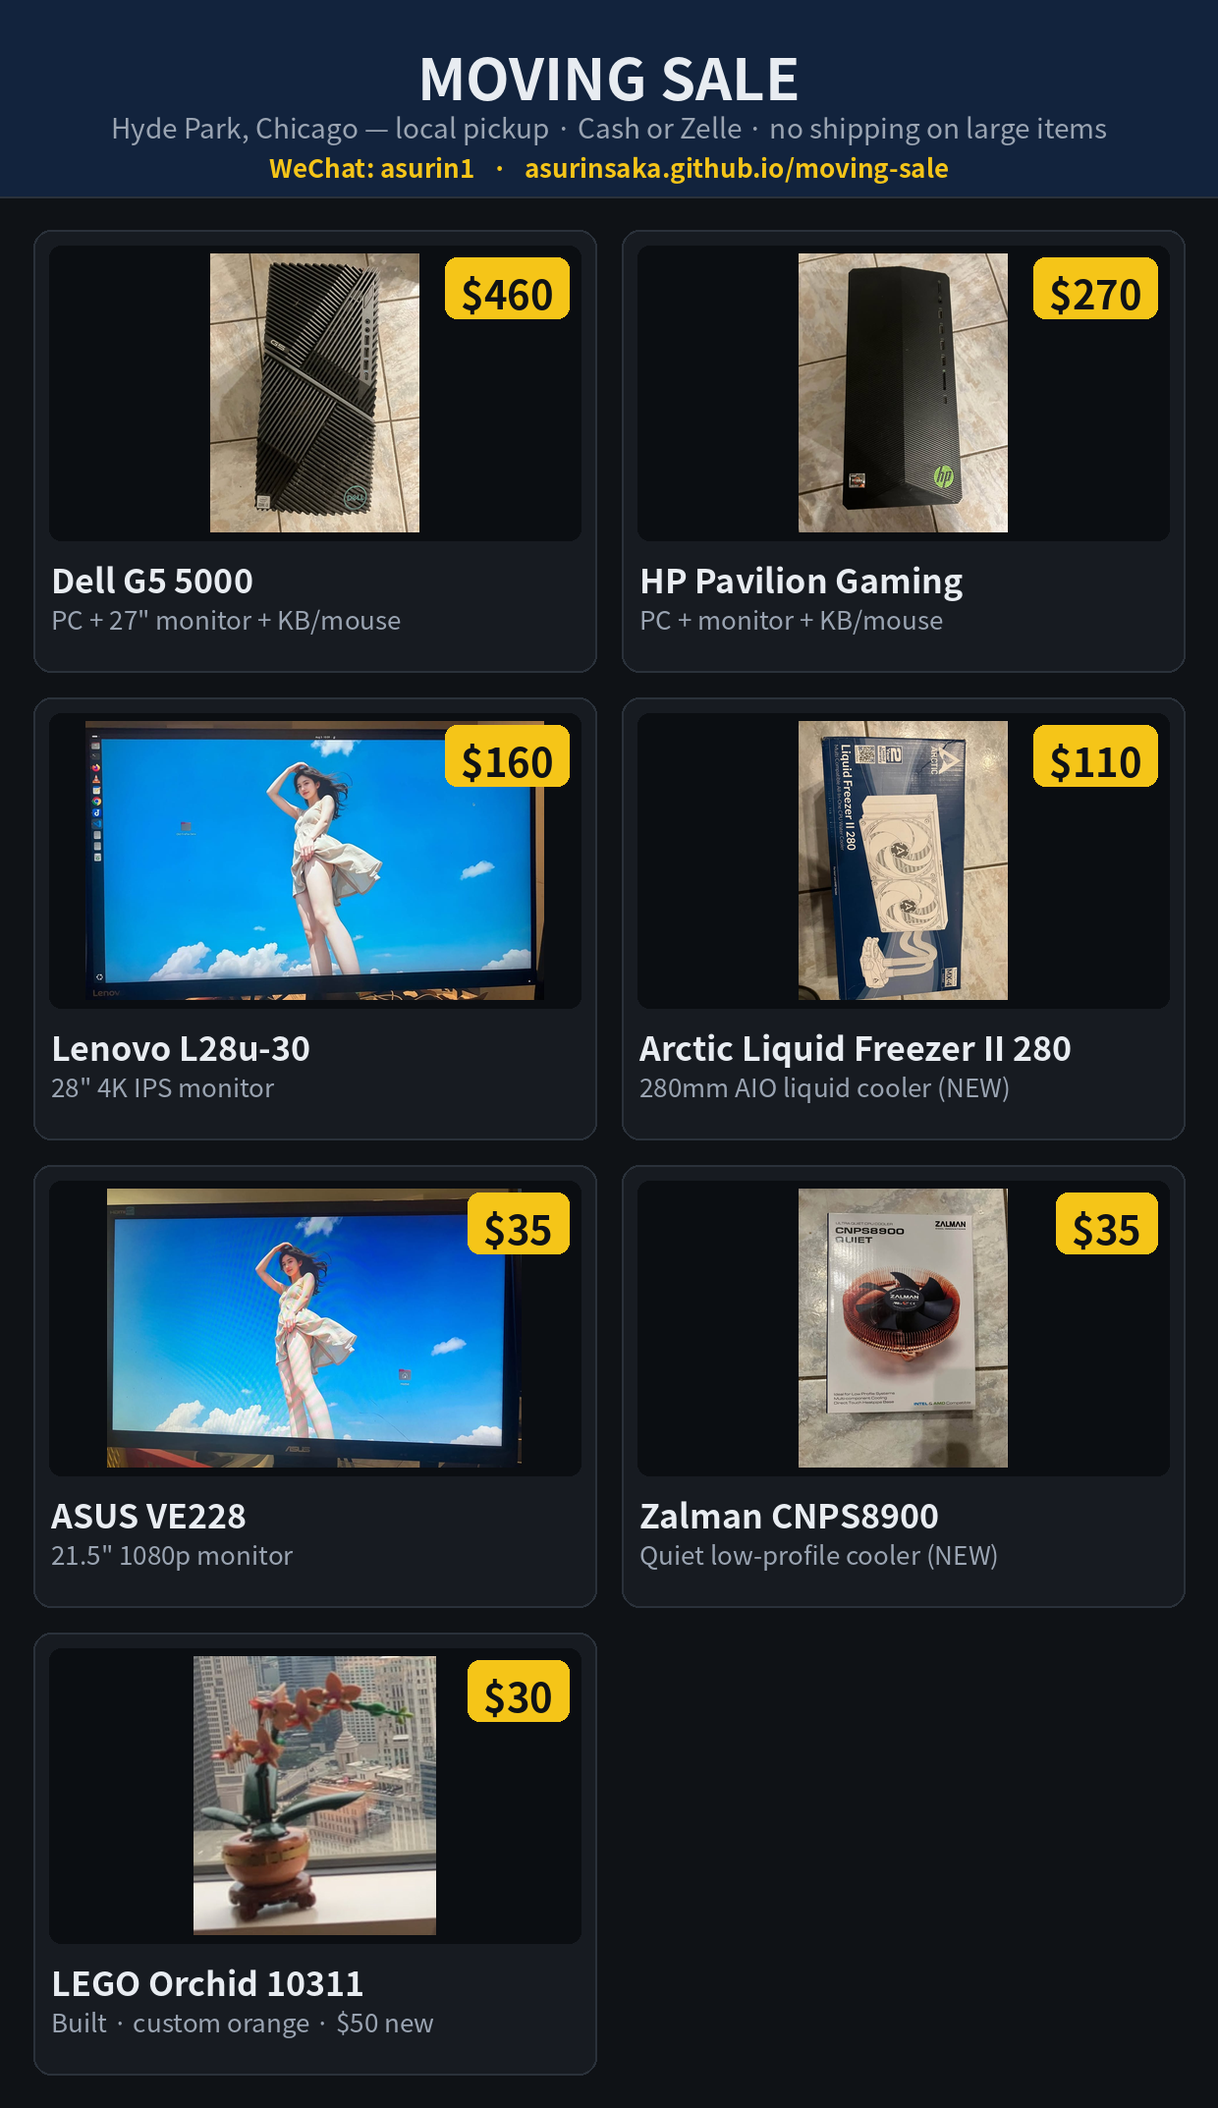
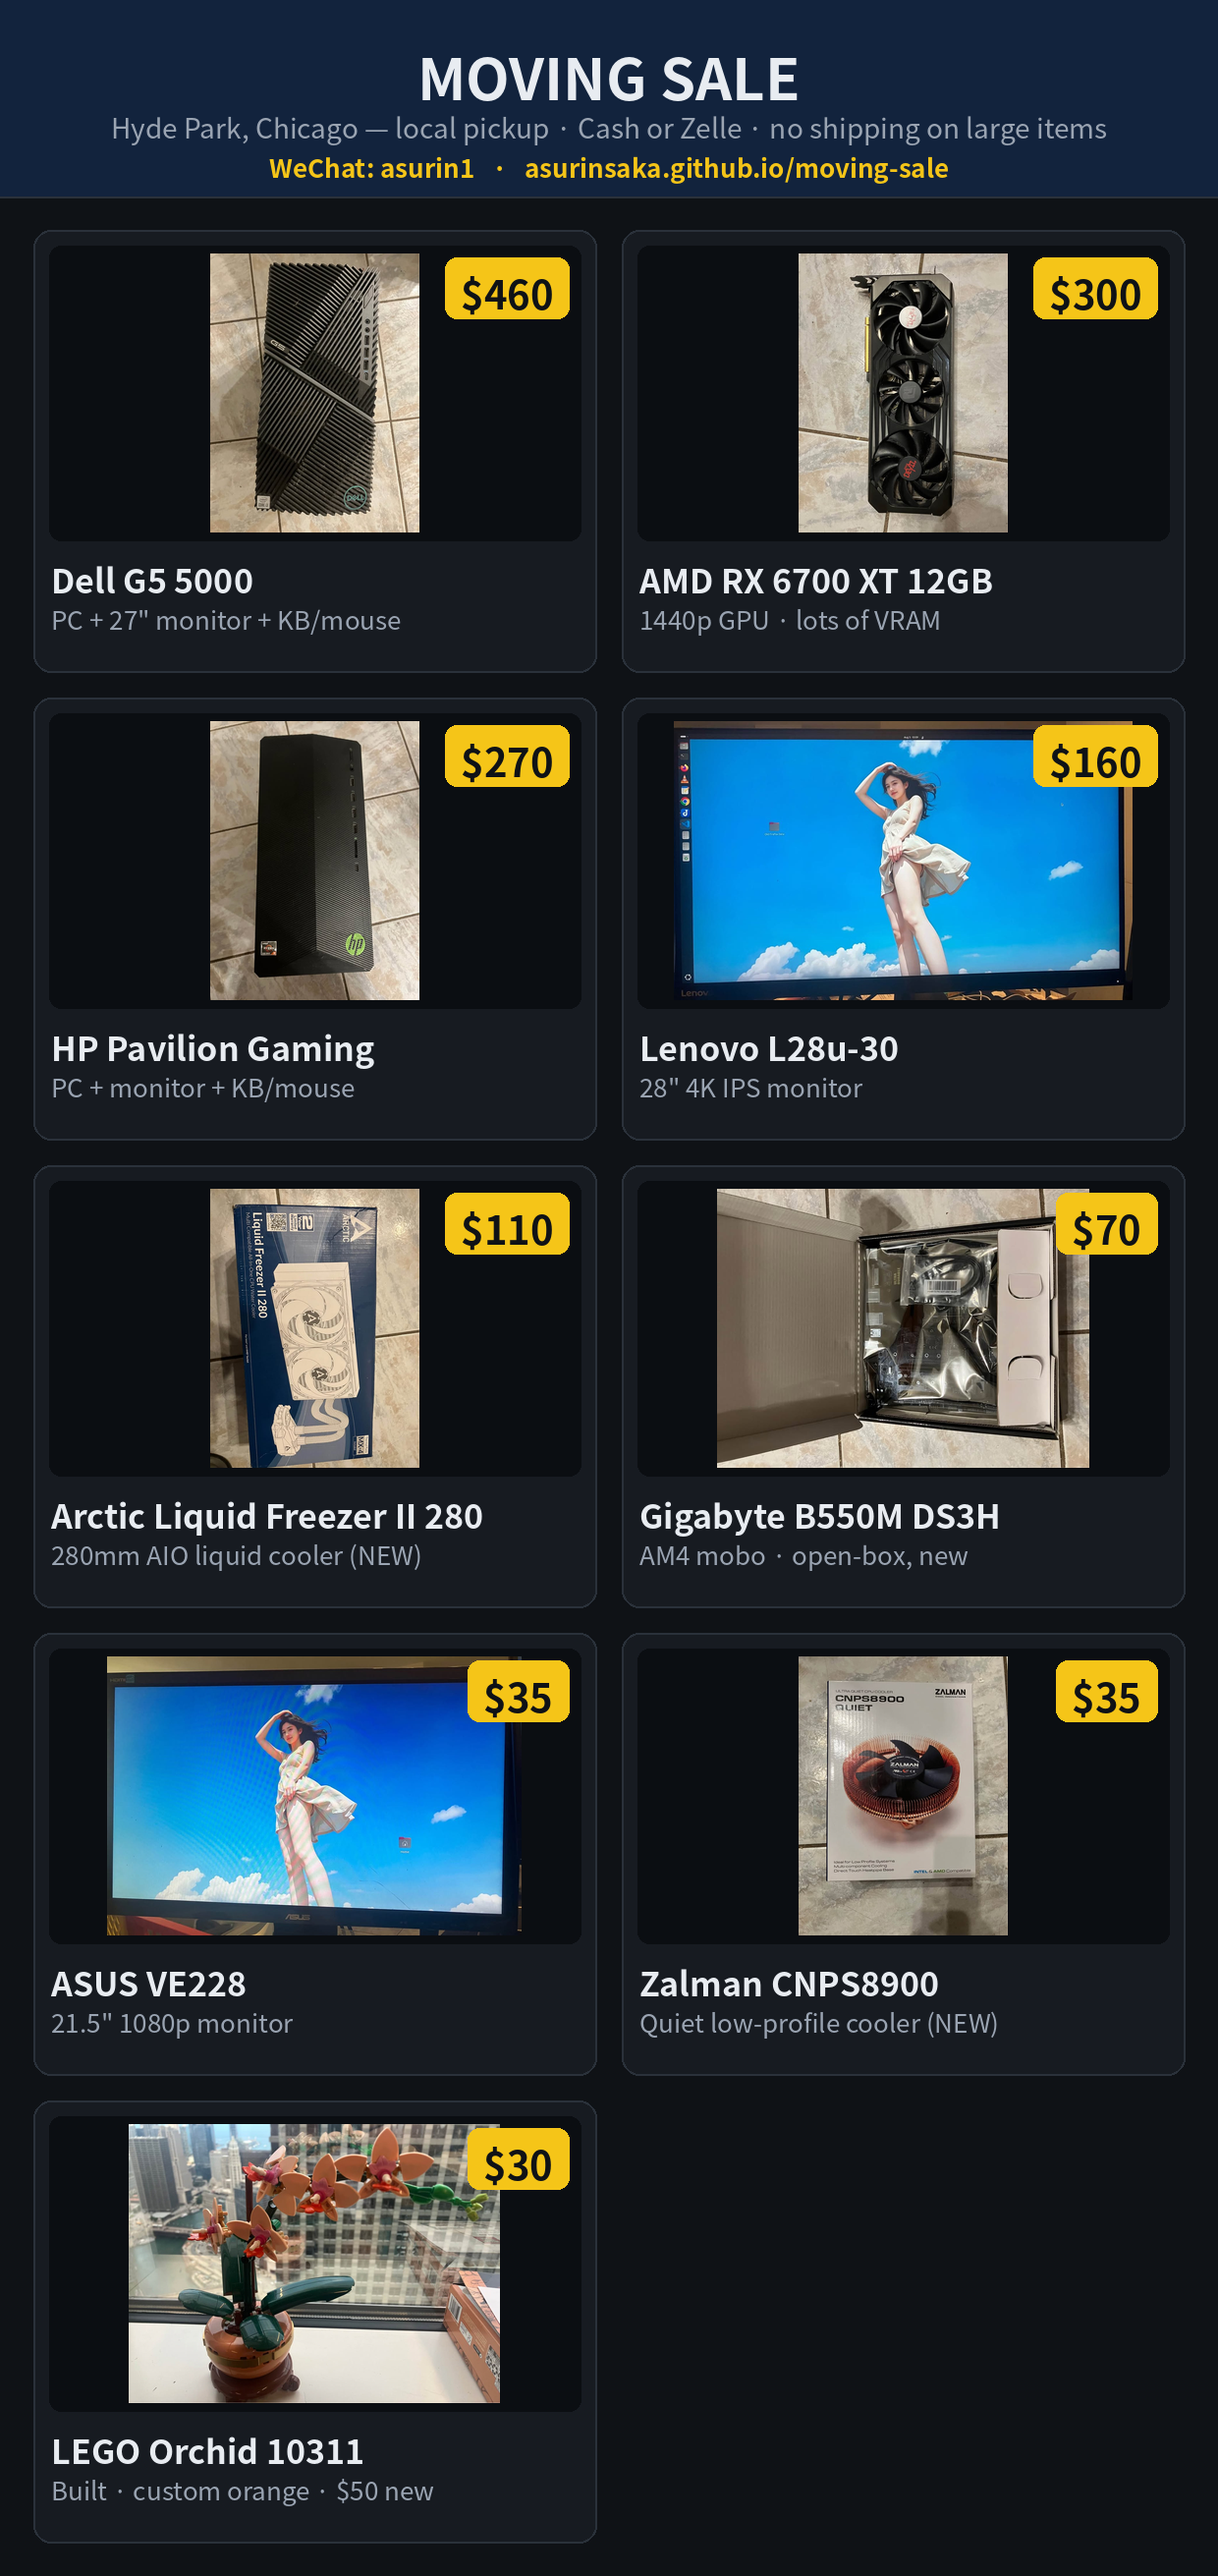
add open-box B550M DS3H listing + RX 6700 XT photo; regenerate posters (zh/en, now 9 items)

diff --git a/electronics/items.js b/electronics/items.js
@@ -38,7 +38,7 @@ window.ITEMS = [
   cond:"二手 近新 · 2024年9月产 / used, like-new (mfg 09/2024)", specs:["32寸 4K UHD 3840×2160 IPS · 60Hz","HDR10 · DCI-P3 95% · AMD FreeSync","内置音箱 · 可升降底座 · 含19V电源"],
   detail:"LG 32UN650K-W，32寸(31.5) 4K UHD IPS 显示器，HDR10 + 95% DCI-P3 + AMD FreeSync，内置 MaxxAudio 音箱，可升降三边微边框底座。2024年9月生产，近新成色，含原装 19V 电源适配器。海德公园自取。LG 32UN650K-W — 32\" (31.5) 4K UHD IPS, HDR10, 95% DCI-P3, AMD FreeSync, built-in speakers, height-adjustable borderless stand. Manufactured 09/2024, like-new; includes the original 19V power adapter. Local pickup."},
 
- {id:"rx6700xt", cat:"part", zh:"AMD RX 6700 XT 12G 显卡", en:"AMD Radeon RX 6700 XT 12GB GPU", price:300, photo:"",
+ {id:"rx6700xt", cat:"part", zh:"AMD RX 6700 XT 12G 显卡", en:"AMD Radeon RX 6700 XT 12GB GPU", price:300, photo:"images/rx6700xt.jpg",
   cond:"二手良好 / used, good", specs:["12GB GDDR6 · PCIe 4.0","2K 高刷游戏利器 / strong 1440p","需 8+6pin 供电 · 测试无花屏"],
   detail:"RX 6700 XT 12G，2K 游戏利器，大显存。成色好，测试无花屏。可邮寄(买家付运费)。RX 6700 XT 12GB — excellent 1440p card with lots of VRAM, tested with no artifacts. Can ship at buyer's cost.",
   ai:"🤖 <b>本地 AI / Local AI：</b>12G 显存，用 <b>Ollama (Vulkan)</b> 可跑 7–13B 模型（AMD 卡，无 CUDA）。12GB — runs 7–13B LLMs via Ollama/Vulkan (AMD, no CUDA)."},
@@ -56,6 +56,11 @@ window.ITEMS = [
   note:"买任意主机可免费带走 / free with any PC purchase",
   detail:"罗技无线套装：K540 键盘 + M510 鼠标。用过，成色一般但功能正常，含 Unifying 接收器。买主机免费送，也可单独带走。Logitech wireless K540 keyboard + M510 mouse — used, fair cosmetic condition, fully working, Unifying receiver included. Free with any PC purchase, or take them on their own."},
 
+ {id:"b550m-ds3h-new", cat:"part", zh:"技嘉 B550M DS3H 主板 (全新开盒)", en:"Gigabyte B550M DS3H (open-box, new)", price:70, photo:"images/b550m-ds3h-openbox.jpg",
+  cond:"全新开盒 · 从未使用 / open-box, never used", specs:["AM4 / B550 Micro-ATX 主板","支持 锐龙 3000/5000 · PCIe 4.0","4×DDR4 · 2×M.2 · 4×SATA","全新未用 · 含原盒/挡板/线材 / complete w/ box"],
+  note:"全新开盒，可小刀 / open-box, OBO",
+  detail:"技嘉 B550M DS3H，全新开盒从未使用，含原盒、挡板、SATA线、说明书。AM4(锐龙3000/5000)，PCIe 4.0，2×M.2。可邮寄(买家付运费)。Gigabyte B550M DS3H — open box, never used, complete with box / I-O shield / SATA cables / manual. AM4 (Ryzen 3000/5000), PCIe 4.0, 2× M.2. Can ship.",
+  ai:""},
  {id:"b550m-ds3h", cat:"part", sold:true, zh:"技嘉 B550M DS3H 主板", en:"Gigabyte B550M DS3H motherboard", price:50, photo:"images/b550m-ds3h.jpg",
   cond:"已售出 / sold", specs:["AM4 / B550 Micro-ATX 主板","已于 2026-08 售出 / sold Aug 2026"]},
 ];
